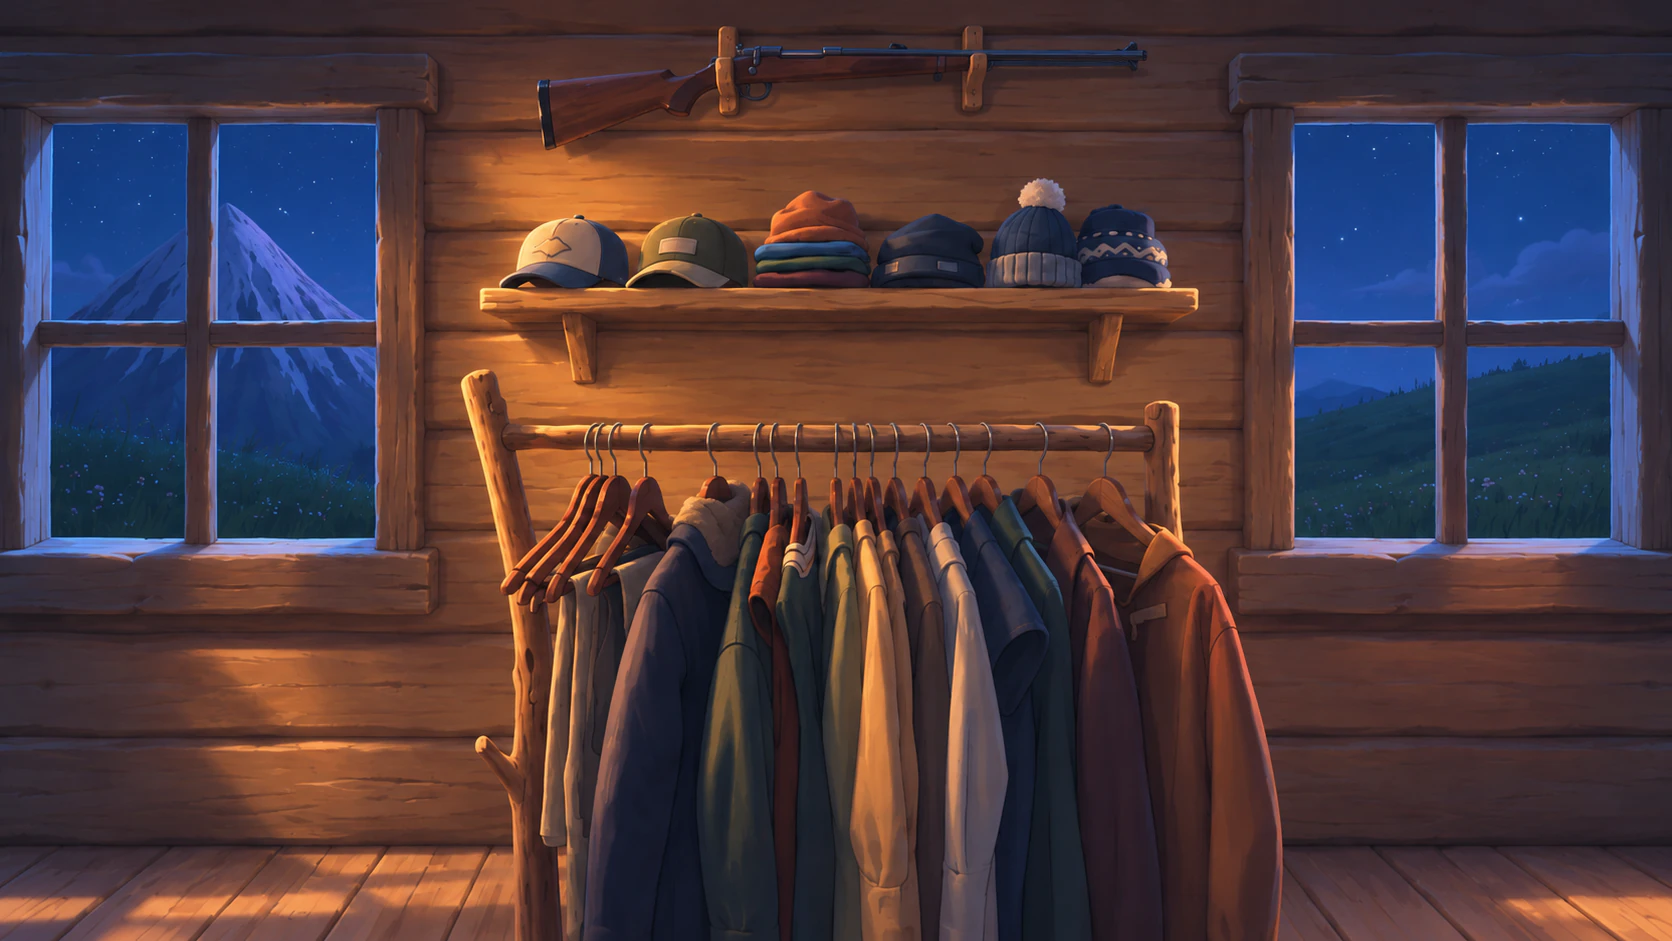
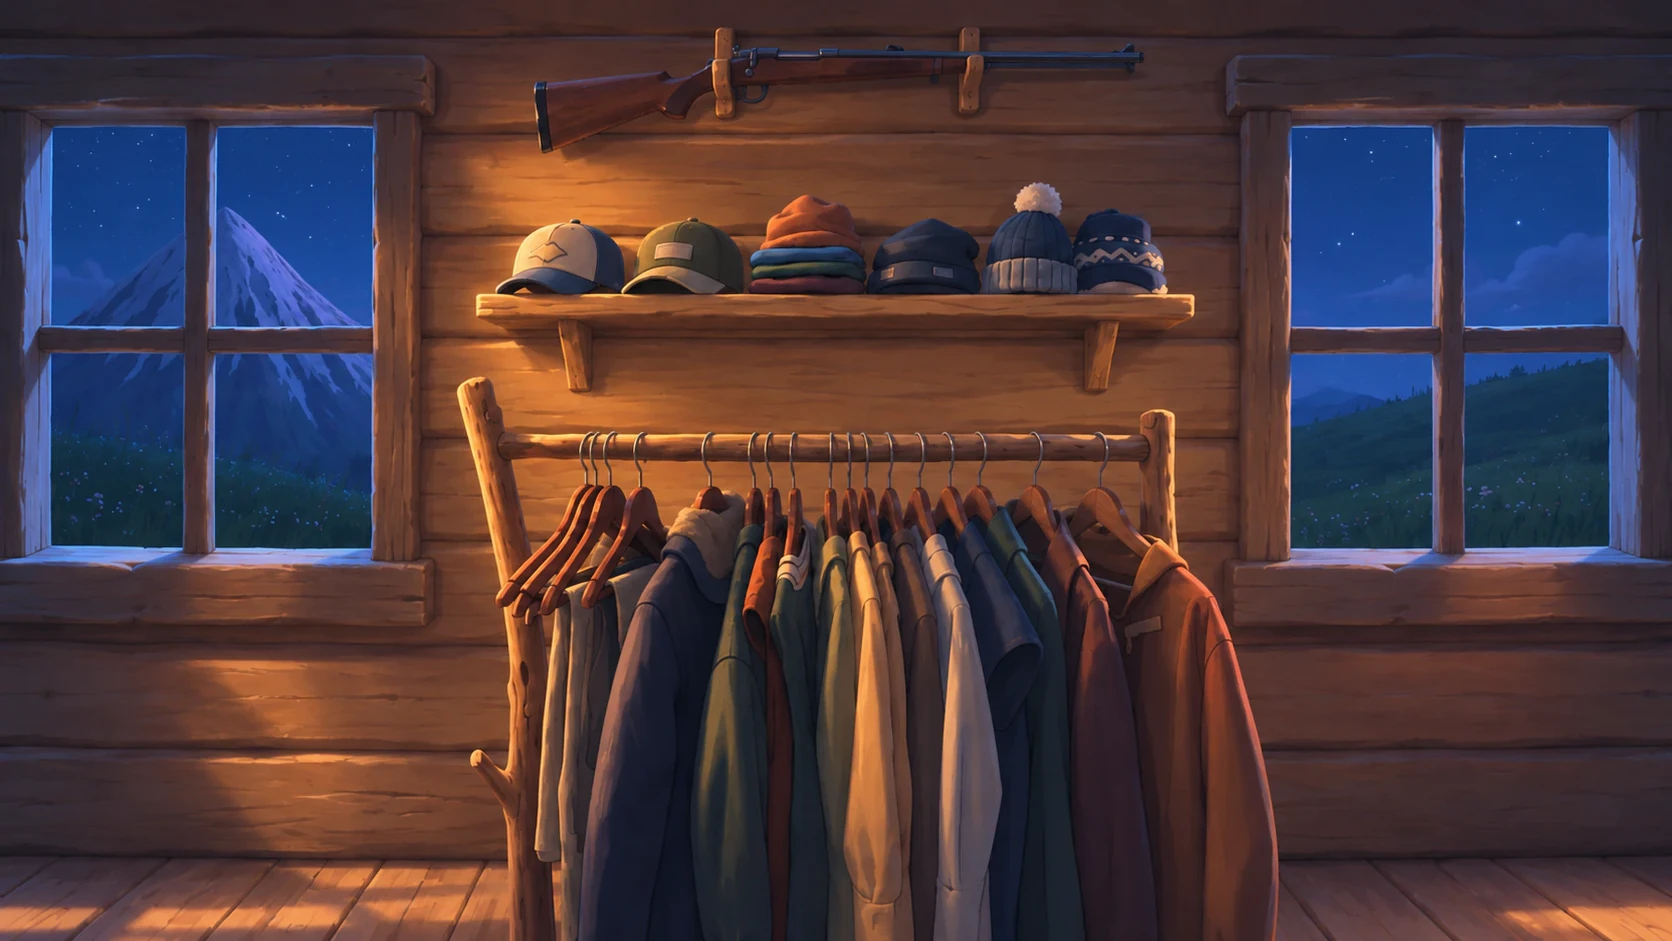
Line the room's sunset and night up with its day
The landscape sunset and night paintings sat up to 40px off the day one,
so the room doubled while the light crossed between them. Both are now
warped onto day (tools/align-paintings.py); about 2px remain.

diff --git a/tools/align-paintings.py b/tools/align-paintings.py
@@ -1,0 +1,103 @@
+"""
+Warps one of the room's paintings onto another, so the three lights (day, sunset, night)
+line up and cross-fade without the room doubling. Each light is a separately generated
+picture, and no two of them agree exactly on where the shelf, the rack and the windows are.
+
+    python tools/align-paintings.py <reference> <painting> <out> [--check]
+
+e.g.
+    python tools/align-paintings.py assets/interior/day.webp assets/interior/sunset.webp assets/interior/sunset.webp
+
+How: blocks of the reference's edges are matched in the painting's (within SEARCH pixels),
+then one smooth displacement — a cubic in x and y, fitted with weights for how sure each
+match is and refitted to shrug off the bad ones — is applied to the whole painting. Smooth on
+purpose: following every match would bend the log walls. The painting's own content outside
+the overlap is pulled in from its edge.
+"""
+import sys
+import numpy as np
+from PIL import Image
+from scipy.ndimage import gaussian_filter, map_coordinates
+
+BLOCK, SEARCH, STEP = 72, 40, 36
+
+
+def edges(rgb):
+    g = gaussian_filter(rgb.mean(-1), 1.2)
+    gy, gx = np.gradient(g)
+    m = np.hypot(gx, gy)
+    return m / (gaussian_filter(m, 15) + 2.0)
+
+
+def basis(x, y):
+    return np.stack([np.ones_like(x), x, y, x * x, x * y, y * y, x ** 3, x * x * y, x * y * y, y ** 3], -1)
+
+
+def match(ref, img):
+    """(centres, displacement, confidence) of each block of ref found in img."""
+    H, W = ref.shape
+    half = BLOCK // 2
+    pts, disp, conf = [], [], []
+    for y in range(half + SEARCH, H - half - SEARCH, STEP):
+        for x in range(half + SEARCH, W - half - SEARCH, STEP):
+            a = ref[y - half:y + half, x - half:x + half]
+            if a.std() < 0.15:
+                continue
+            a = (a - a.mean()) / a.std()
+            window = img[y - half - SEARCH:y + half + SEARCH, x - half - SEARCH:x + half + SEARCH]
+            best = (-2.0, 0, 0)
+            for dy in range(-SEARCH, SEARCH + 1, 2):
+                for dx in range(-SEARCH, SEARCH + 1, 2):
+                    b = window[SEARCH + dy:SEARCH + dy + BLOCK, SEARCH + dx:SEARCH + dx + BLOCK]
+                    sd = b.std()
+                    if sd < 1e-3:
+                        continue
+                    score = float(((b - b.mean()) * a).mean() / sd)
+                    if score > best[0]:
+                        best = (score, dx, dy)
+            pts.append((x / W, y / H))
+            disp.append(best[1:])
+            conf.append(max(best[0], 0) ** 2)
+    return np.array(pts, np.float32), np.array(disp, np.float32), np.array(conf, np.float32)
+
+
+def fit(pts, disp, conf):
+    A = basis(pts[:, 0], pts[:, 1])
+    w = conf.copy()
+    for _ in range(6):
+        sw = np.sqrt(w)[:, None]
+        cx = np.linalg.lstsq(A * sw, disp[:, 0] * sw[:, 0], rcond=None)[0]
+        cy = np.linalg.lstsq(A * sw, disp[:, 1] * sw[:, 0], rcond=None)[0]
+        residual = np.hypot(A @ cx - disp[:, 0], A @ cy - disp[:, 1])
+        w = conf / (1 + (residual / 3.0) ** 2)
+    return cx, cy, float(np.median(residual[conf > 0.05]))
+
+
+def main():
+    ref_path, src_path, out_path = sys.argv[1:4]
+    ref = np.asarray(Image.open(ref_path).convert('RGB'), np.float32)
+    src = np.asarray(Image.open(src_path).convert('RGB'), np.float32)
+    if src.shape != ref.shape:
+        src = np.asarray(Image.fromarray(src.astype(np.uint8)).resize(ref.shape[1::-1], Image.LANCZOS), np.float32)
+    H, W = ref.shape[:2]
+
+    pts, disp, conf = match(edges(ref), edges(src))
+    cx, cy, residual = fit(pts, disp, conf)
+
+    yy, xx = np.mgrid[0:H, 0:W].astype(np.float32)
+    B = basis(xx / W, yy / H)
+    dx, dy = B @ cx, B @ cy
+    print(f'{len(pts)} matches, fit residual {residual:.1f}px, shift mean {np.hypot(dx, dy).mean():.1f}px max {np.hypot(dx, dy).max():.1f}px')
+
+    out = np.stack([map_coordinates(src[..., c], [yy + dy, xx + dx], order=3, mode='nearest') for c in range(3)], -1)
+    Image.fromarray(np.clip(out, 0, 255).astype(np.uint8)).save(out_path, quality=90, method=6)
+
+    if '--check' in sys.argv:
+        after = edges(out)
+        before_pts, before_disp, before_conf = match(edges(ref), after)
+        keep = before_conf > 0.05
+        print(f'after: remaining shift median {np.median(np.hypot(*before_disp[keep].T)):.1f}px')
+
+
+if __name__ == '__main__':
+    main()

diff --git a/README.md b/README.md
@@ -204,6 +204,10 @@ meadow returns with the door closed — it is never seen standing open on the wa
 - The portrait set came from three separately generated pictures; sunset and night were
   warped onto day (a global scale and offset, then a smooth cubic field fitted to block
   matches on their edges) so the three line up and cross-fade without ghosting.
+  The landscape sunset and night had the same trouble (sunset sat about 24px off, more
+  toward the floor) and are warped onto the landscape day the same way, by
+  `tools/align-paintings.py <day> <painting> <out> --check`. Run it on any new painting
+  before it goes in, or the room doubles as the light changes.
 
 ## The shop
 
